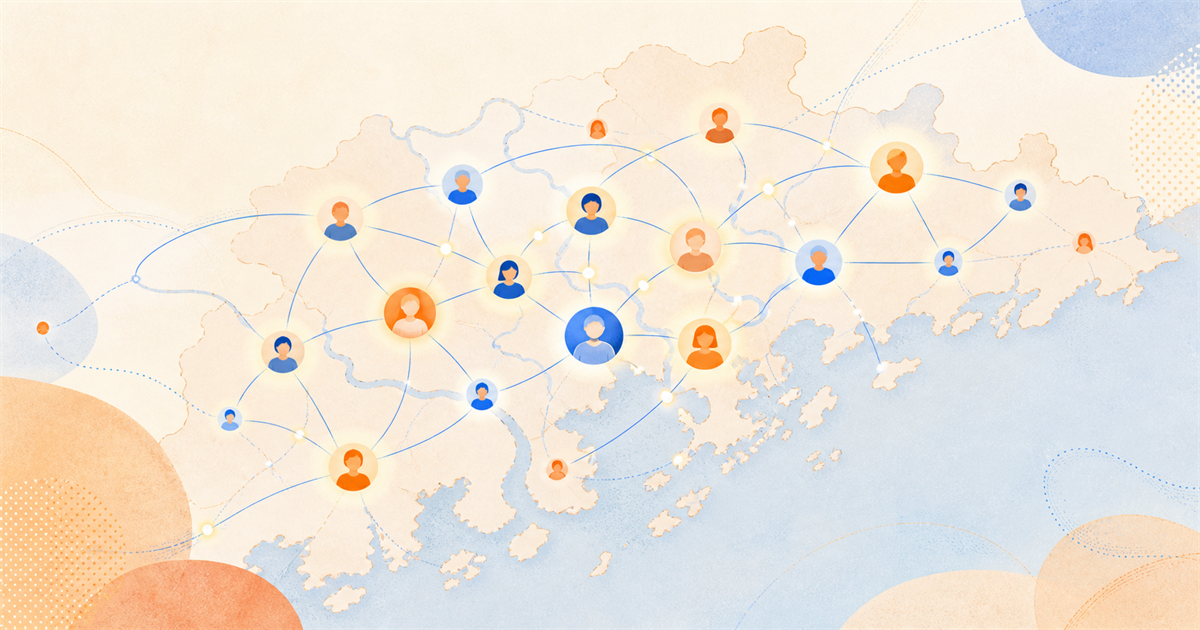
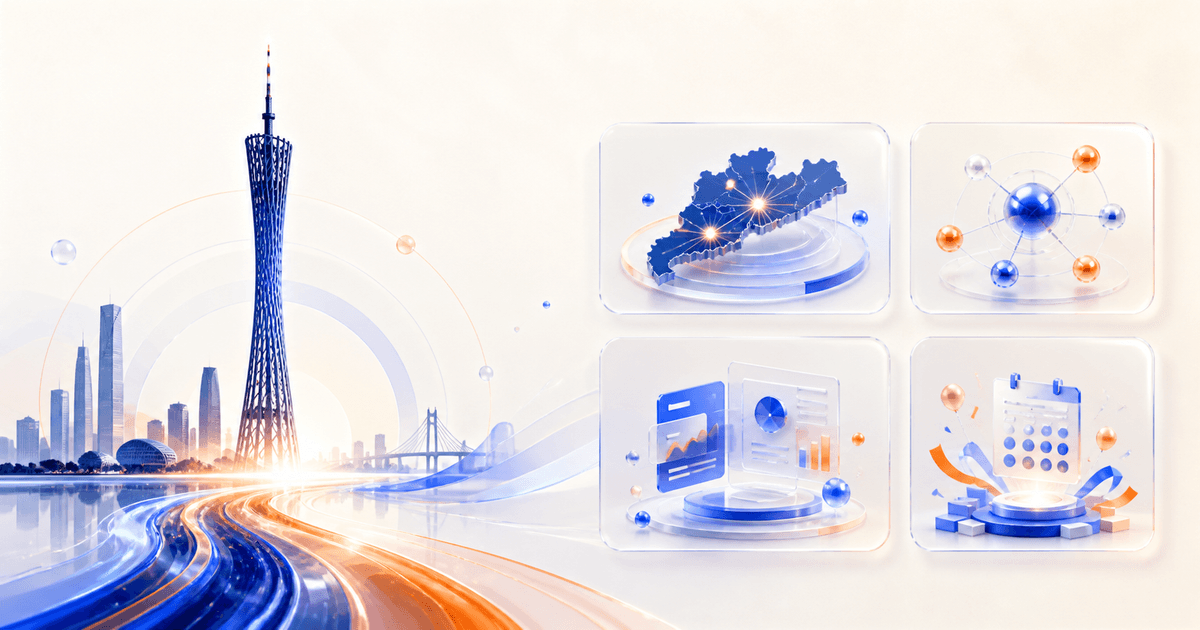
feat: redesign homepage brand experience

diff --git a/app/globals.css b/app/globals.css
@@ -418,3 +418,44 @@ a { color: inherit; }
 @media (prefers-reduced-motion:reduce) {
   .content-filter-pills button,.event-filter-bar button { transition:none; }
 }
+
+/* Homepage brand surface */
+.brand-header .brand-mark { width:192px; height:48px; gap:0; }
+.brand-header .brand-mark img { width:100%; height:auto; max-height:48px; border-radius:0; object-fit:contain; object-position:left center; box-shadow:none; }
+.brand-header .brand-mark::after { display:none; }
+.brand-home-hero { position:relative; display:grid; width:min(1380px,calc(100% - 3rem)); min-height:calc(100svh - 82px); grid-template-columns:minmax(390px,.86fr) minmax(610px,1.14fr); align-items:center; gap:clamp(2rem,4vw,5rem); margin:0 auto; padding:clamp(2.5rem,6vh,5.5rem) 0; isolation:isolate; }
+.brand-home-hero::before { content:""; position:absolute; z-index:-2; inset:-8% -12%; background:radial-gradient(circle at 15% 48%,rgba(255,255,255,.98) 0 20%,transparent 49%),radial-gradient(circle at 84% 27%,rgba(30,78,216,.13),transparent 29%),radial-gradient(circle at 74% 84%,rgba(245,106,43,.14),transparent 31%); }
+.brand-home-hero::after { content:""; position:absolute; z-index:-3; inset:0; opacity:.24; background-image:linear-gradient(rgba(30,78,216,.07) 1px,transparent 1px),linear-gradient(90deg,rgba(30,78,216,.07) 1px,transparent 1px); background-size:46px 46px; mask-image:linear-gradient(90deg,transparent 0,#000 38%,#000 100%); }
+.brand-home-copy { position:relative; z-index:2; align-self:center; }
+.brand-home-copy .brand-eyebrow { margin-bottom:clamp(1.5rem,3.2vh,2.6rem); }
+.brand-home-copy h1 { max-width:620px; margin:0; font-family:var(--font-source-han-serif),"Source Han Serif SC","Noto Serif CJK SC",serif; font-size:clamp(3rem,4.25vw,5.25rem); font-weight:600; line-height:1.22; letter-spacing:.025em; }
+.brand-home-copy h1 .hero-title-line { color:inherit; text-shadow:none; }
+.brand-home-copy h1 .hero-title-accent { color:var(--cobalt); text-shadow:0 12px 34px rgba(30,78,216,.16); }
+.brand-home-copy .brand-intro { max-width:520px; margin:1.5rem 0 0; }
+.brand-home-copy .brand-hero-actions { justify-content:flex-start; margin-top:1.75rem; }
+.brand-home-copy .brand-primary-action,.brand-home-copy .brand-secondary-action { min-width:148px; text-align:center; transition:transform .25s ease,box-shadow .25s ease,background-color .25s ease; }
+.brand-home-copy .brand-primary-action:hover,.brand-home-copy .brand-secondary-action:hover { transform:translateY(-3px); }
+.hero-channel-grid { display:grid; min-width:0; grid-template-columns:repeat(2,minmax(0,1fr)); gap:clamp(.8rem,1.4vw,1.2rem); perspective:1200px; }
+.hero-channel-card { --card-index:0; position:relative; display:block; min-height:clamp(220px,31vh,310px); overflow:hidden; border:1px solid rgba(255,255,255,.82); border-radius:28px; background:#fff; color:#10213d; text-decoration:none; box-shadow:0 22px 55px rgba(16,33,61,.13),inset 0 1px 0 #fff; isolation:isolate; transition:transform .42s cubic-bezier(.2,.8,.2,1),box-shadow .42s ease,border-color .3s ease; animation:hero-card-in .7s calc(var(--card-index) * 90ms + 120ms) both cubic-bezier(.22,1,.36,1); }
+.hero-channel-card:nth-child(2n) { transform:translateY(15px); }
+.hero-channel-card img { z-index:-2; object-fit:cover; transition:transform .7s cubic-bezier(.2,.8,.2,1),filter .5s ease; }
+.hero-channel-map img { object-position:62% center; }
+.hero-channel-card::before { content:""; position:absolute; z-index:-1; inset:0; background:linear-gradient(145deg,rgba(255,255,255,.96) 0%,rgba(255,255,255,.72) 29%,rgba(255,255,255,.04) 66%),linear-gradient(0deg,rgba(9,29,65,.34),transparent 48%); }
+.hero-channel-sheen { position:absolute; inset:-70% 28% -70% -60%; transform:rotate(18deg); background:linear-gradient(90deg,transparent,rgba(255,255,255,.46),transparent); transition:transform .85s ease; }
+.hero-channel-copy { position:absolute; inset:0; display:flex; flex-direction:column; align-items:flex-start; padding:clamp(1.15rem,2vw,1.7rem); }
+.hero-channel-number { color:rgba(16,33,61,.46); font-size:.67rem; font-weight:850; letter-spacing:.14em; }
+.hero-channel-copy h2 { margin:.32rem 0 0; font-size:clamp(1.35rem,2vw,2rem); line-height:1; letter-spacing:-.055em; }
+.hero-channel-copy>span:last-child { margin-top:auto; color:rgba(255,255,255,.92); font-size:.78rem; font-weight:650; text-shadow:0 1px 10px rgba(5,23,51,.35); }
+.hero-channel-arrow { position:absolute; right:1rem; bottom:1rem; display:grid; width:38px; height:38px; place-items:center; border:1px solid rgba(255,255,255,.72); border-radius:50%; background:rgba(255,255,255,.82); color:var(--cobalt); font-size:1.05rem; backdrop-filter:blur(10px); transition:transform .35s ease,background-color .3s ease; }
+.hero-channel-card:hover { border-color:#fff; box-shadow:0 32px 70px rgba(16,33,61,.2),inset 0 1px 0 #fff; transform:translateY(-7px) rotateX(1deg) rotateY(-1deg); }
+.hero-channel-card:nth-child(2n):hover { transform:translateY(7px) rotateX(1deg) rotateY(1deg); }
+.hero-channel-card:hover img { transform:scale(1.055); filter:saturate(1.08); }
+.hero-channel-card:hover .hero-channel-sheen { transform:translateX(210%) rotate(18deg); }
+.hero-channel-card:hover .hero-channel-arrow { transform:rotate(45deg); background:#fff; }
+.hero-channel-card:focus-visible { outline:4px solid rgba(30,78,216,.32); outline-offset:4px; }
+@keyframes hero-card-in { from { opacity:0; translate:0 34px; scale:.97; } to { opacity:1; translate:0 0; scale:1; } }
+@media (max-width:1100px) { .brand-home-hero { grid-template-columns:minmax(320px,.78fr) minmax(520px,1.22fr); gap:2rem; }.hero-channel-card { min-height:240px; }.brand-home-copy h1 { font-size:clamp(2.8rem,5vw,4.4rem); } }
+@media (max-width:900px) { .brand-home-hero { min-height:auto; grid-template-columns:1fr; padding:3.6rem 0 5rem; }.brand-home-copy { max-width:720px; }.brand-home-copy h1 { max-width:700px; font-size:clamp(3rem,8vw,5rem); }.hero-channel-grid { margin-top:1rem; }.hero-channel-card { min-height:280px; } }
+@media (max-width:720px) { .brand-header .brand-mark { width:150px; }.brand-shell>.brand-header .brand-nav { display:none; }.brand-home-hero { width:min(100% - 2rem,1380px); padding:2.6rem 0 4rem; }.brand-home-copy h1 { font-size:clamp(2.55rem,12vw,4rem); line-height:1.2; }.brand-home-copy .hero-title-line { white-space:normal; }.brand-home-copy .brand-intro { margin-top:1rem; }.hero-channel-grid { gap:.65rem; }.hero-channel-card { min-height:200px; border-radius:20px; }.hero-channel-copy { padding:1rem; }.hero-channel-copy h2 { font-size:1.25rem; }.hero-channel-copy>span:last-child { max-width:72%; font-size:.68rem; }.hero-channel-arrow { right:.7rem; bottom:.7rem; width:32px; height:32px; }.hero-channel-card:nth-child(2n) { transform:translateY(8px); } }
+@media (max-width:430px) { .brand-home-copy .brand-hero-actions { display:grid; grid-template-columns:1fr 1fr; }.brand-home-copy .brand-primary-action,.brand-home-copy .brand-secondary-action { min-width:0; padding:.82rem .65rem; }.hero-channel-card { min-height:178px; }.hero-channel-copy>span:last-child { display:none; } }
+@media (prefers-reduced-motion:reduce) { .hero-channel-card { animation:none; transition:none; }.hero-channel-card img,.hero-channel-sheen,.hero-channel-arrow { transition:none; } }

diff --git a/app/page.tsx b/app/page.tsx
@@ -2,23 +2,47 @@ import { EcosystemMapSwitcher } from "../components/map/EcosystemMapSwitcher";
 import { PrimaryNavigation } from "../components/navigation/PrimaryNavigation";
 import Image from "next/image";
 
+const homeChannels = [
+  { href: "#map", title: "共建地图", subtitle: "点亮高校，连接广东", artwork: "/brand/home-map.webp", tone: "map" },
+  { href: "/communities", title: "AI 社区", subtitle: "连接同频，共创未来", artwork: "/brand/home-community.webp", tone: "community" },
+  { href: "/news", title: "AI 资讯", subtitle: "洞察前沿，启发更多", artwork: "/brand/home-news.webp", tone: "news" },
+  { href: "/events", title: "活动赛事", subtitle: "发现活动，参与共建", artwork: "/brand/home-events.webp", tone: "events" },
+] as const;
+
 export default function Home() {
   return (
     <main className="brand-shell">
       <header className="brand-header">
         <a className="brand-mark" href="#top" aria-label="广州AI共创社首页">
-          <Image src="/logo.png" alt="广州AI共创社" width={44} height={44} priority />
-          <span>广州AI共创社</span>
+          <Image src="/brand/gzaib-horizontal.png" alt="广州 AI 共创社 GZAIB" width={276} height={106} priority unoptimized />
         </a>
         <PrimaryNavigation active="map" />
         <a className="brand-header-action" href="/admin">管理员入口</a>
       </header>
-      <section className="brand-hero" id="top" aria-labelledby="hero-title">
-        <div className="hero-glow hero-glow-blue" aria-hidden="true" /><div className="hero-glow hero-glow-orange" aria-hidden="true" />
-        <p className="brand-eyebrow">广东高校 · 青年共建网络</p>
-        <h1 id="hero-title"><span className="hero-title-line">让广东每一所高校，</span><span className="hero-title-line">都亮起一束<span className="hero-title-accent">共建的光</span>。</span></h1>
-        <p className="brand-intro">看见彼此，连接不同学校、不同城市里愿意分享、愿意行动的年轻人。</p>
-        <div className="brand-hero-actions"><a className="brand-primary-action" href="/apply">申请点亮我的头像 <span>→</span></a><a className="brand-secondary-action" href="#map">看看谁已加入 <span>↓</span></a></div>
+      <section className="brand-home-hero" id="top" aria-labelledby="hero-title">
+        <div className="brand-home-copy">
+          <p className="brand-eyebrow">广东高校 · 青年共建网络</p>
+          <h1 id="hero-title"><span className="hero-title-line">让广东每一所高校，</span><span className="hero-title-line">都亮起一束<span className="hero-title-accent">共建的光</span>。</span></h1>
+          <p className="brand-intro">看见彼此，连接不同学校、不同城市里愿意分享、愿意行动的年轻人。</p>
+          <div className="brand-hero-actions">
+            <a className="brand-primary-action" href="/apply">申请点亮我的头像 <span>→</span></a>
+            <a className="brand-secondary-action" href="#map">探索地图 <span>↓</span></a>
+          </div>
+        </div>
+        <div className="hero-channel-grid" aria-label="探索广州 AI 共创社">
+          {homeChannels.map((channel, index) => (
+            <a className={`hero-channel-card hero-channel-${channel.tone}`} href={channel.href} key={channel.title} style={{ "--card-index": index } as React.CSSProperties}>
+              <Image src={channel.artwork} alt="" fill sizes="(max-width: 720px) 45vw, (max-width: 1100px) 28vw, 22vw" unoptimized />
+              <span className="hero-channel-sheen" aria-hidden="true" />
+              <span className="hero-channel-copy">
+                <span className="hero-channel-number">0{index + 1}</span>
+                <h2>{channel.title}</h2>
+                <span>{channel.subtitle}</span>
+              </span>
+              <span className="hero-channel-arrow" aria-hidden="true">↗</span>
+            </a>
+          ))}
+        </div>
       </section>
       <EcosystemMapSwitcher initialView="builders" />
       <section className="approval-flow" id="how-it-works" aria-labelledby="approval-title">
